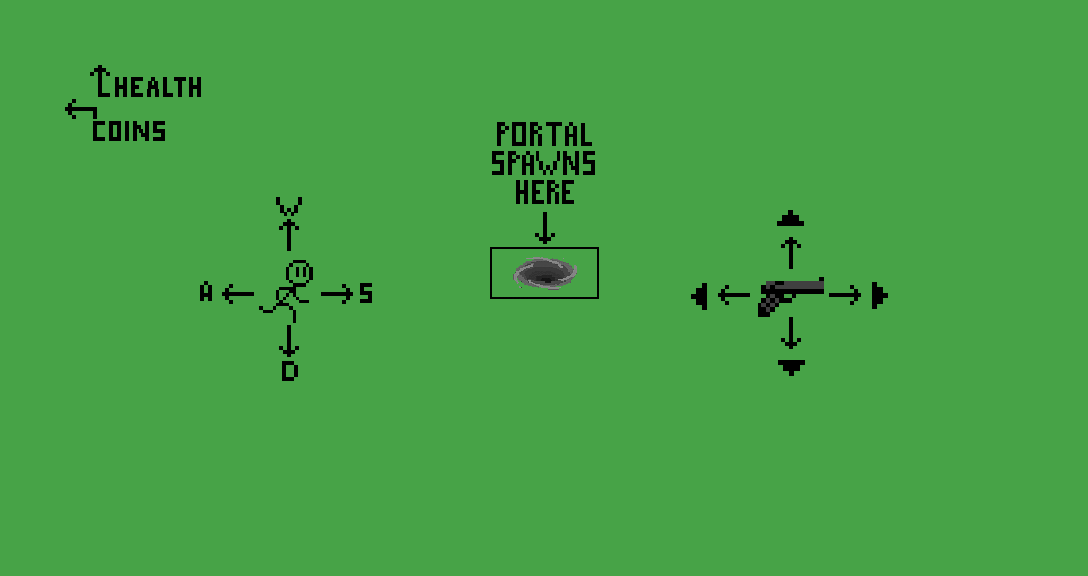
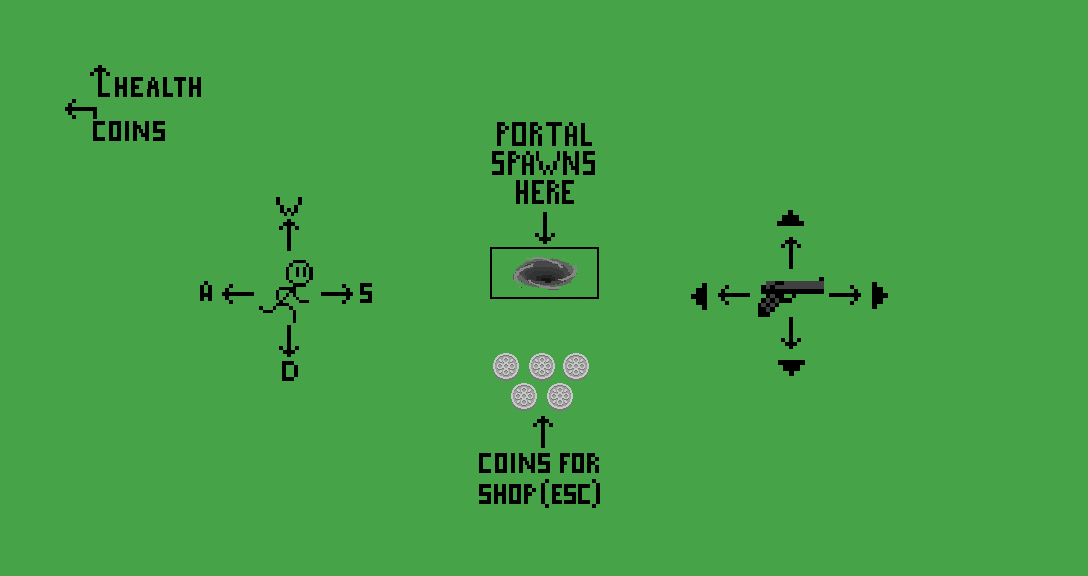
Update

Changed region(s): [[0.4375, 0.7812, 0.5625, 0.875], [0.4375, 0.5938, 0.5625, 0.75]]

diff --git a/src/Model/Dante.java b/src/Model/Dante.java
@@ -43,7 +43,7 @@ public class Dante extends GameObject {
     private int damage = 0;
     private int health = 7;
     private int armor = 5;
-    private int coins = 1000;
+    private int coins = 100;
 
     private int frameCount = 0;
     private int gameOverScreenCounter = 0;
@@ -51,6 +51,7 @@ public class Dante extends GameObject {
 
     private transient BufferedImage bufferedBodyImage;
     private transient BufferedImage bufferedGunImage;
+    private transient BufferedImage darken;
 
     /**
      * This is the constructor for Dante
@@ -118,6 +119,8 @@ public class Dante extends GameObject {
         gameOverScreen.add(loader.loadImage("../MainMenuAssets/GameOver/GameOver3.png"));
         gameOverScreen.add(loader.loadImage("../MainMenuAssets/GameOver/GameOver4.png"));
         gameOverScreen.add(loader.loadImage("../MainMenuAssets/GameOver/GameOver5.png"));
+
+        darken = loader.loadImage("../Assets/Darken.png");
     }
 
     /**
@@ -567,16 +570,20 @@ public class Dante extends GameObject {
                     (int)Camera.getInstance().getY() + 10,
                     null);
 
+
+        g.drawImage(darken, (int) Camera.getInstance().getX(), (int) Camera.getInstance().getY() + 60, null);
+
         g.drawImage(Game.getInstance(20).getCoinSprites().get(0),
                 (int) Camera.getInstance().getX() + 20,
                 (int) Camera.getInstance().getY() + 64,
                 null);
 
+
         g.setColor(Color.WHITE);
         g.setFont(new Font("TimesRoman", Font.PLAIN, 20));
         g.drawString("x" + coins,
                 (int) Camera.getInstance().getX() + 10,
-                (int) Camera.getInstance().getY() + 115);
+                (int) Camera.getInstance().getY() + 110);
 
         // Sets health to a min value of 0
         if (health <= 0) {

diff --git a/src/Model/LoadLevel.java b/src/Model/LoadLevel.java
@@ -122,5 +122,13 @@ public class LoadLevel{
                 }
             }
         }
+
+        if(Dante.currentLevel == Levels.Limbo) {
+            Handler1.getInstance().addObject(new Coin(3 * 1088 + 490, 3 * 576 + 350));
+            Handler1.getInstance().addObject(new Coin(3 * 1088 + 490 + 36, 3 * 576 + 350));
+            Handler1.getInstance().addObject(new Coin(3 * 1088 + 490 + 34 + 36, 3 * 576 + 350));
+            Handler1.getInstance().addObject(new Coin(3 * 1088 + 490 + 18, 3 * 576 + 30 + 350));
+            Handler1.getInstance().addObject(new Coin(3 * 1088 + 490 + 18 + 36, 3 * 576 + 30 + 350));
+        }
     }
 }

diff --git a/src/Model/SmartEnemy.java b/src/Model/SmartEnemy.java
@@ -142,7 +142,7 @@ public class SmartEnemy extends GameObject{
 
         if(hp <= 0) {
             Random rand = new Random();
-            if(rand.nextInt(100) <= 15)
+            if(rand.nextInt(100) <= 33)
                 Handler1.getInstance().addObject(new Coin(x, y));
             Handler1.getInstance().removeObject(this);
         }

diff --git a/src/Model/ShotEnemy.java b/src/Model/ShotEnemy.java
@@ -105,7 +105,7 @@ public class ShotEnemy extends GameObject{
 
         if(hp <= 0) {
             Random rand = new Random();
-            if(rand.nextInt(100) <= 15)
+            if(rand.nextInt(100) <= 33)
                 Handler1.getInstance().addObject(new Coin(x, y));
             Handler1.getInstance().removeObject(this);
         }

diff --git a/src/Model/EndBoss.java b/src/Model/EndBoss.java
@@ -74,7 +74,7 @@ public class EndBoss extends GameObject{
 
         if(hp <= 0) {
             Random rand = new Random();
-            if(rand.nextInt(100) <= 15)
+            if(rand.nextInt(100) <= 33)
                 Handler1.getInstance().addObject(new Coin(x, y));
             Handler1.getInstance().removeObject(this);
         }

diff --git a/src/Model/Enemy.java b/src/Model/Enemy.java
@@ -87,7 +87,7 @@ public class Enemy extends GameObject {
 
         if(hp <= 0) {
             Random rand = new Random();
-            if(rand.nextInt(100) <= 15)
+            if(rand.nextInt(100) <= 33)
                 Handler1.getInstance().addObject(new Coin(x, y));
             Handler1.getInstance().removeObject(this);
         }

diff --git a/src/Model/Miniboss.java b/src/Model/Miniboss.java
@@ -89,7 +89,7 @@ public class Miniboss extends GameObject {
         this.hp -= action;
         //Miniboss getting faster every -1000hp
         if(this.hp != 10000 && this.hp % 1000 == 0)
-            this.increasingSpeed += 0.3;
+            this.increasingSpeed += 0.1;
     }
 
     /**
